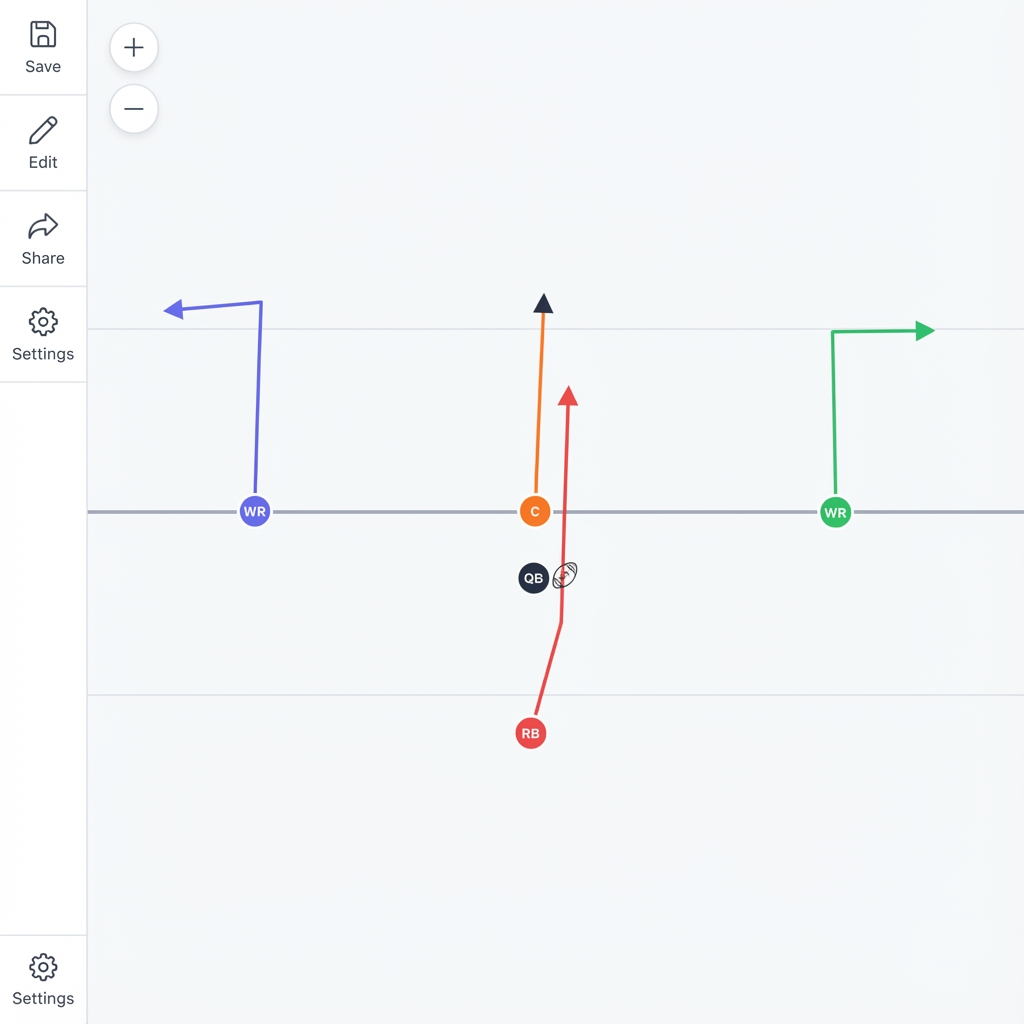
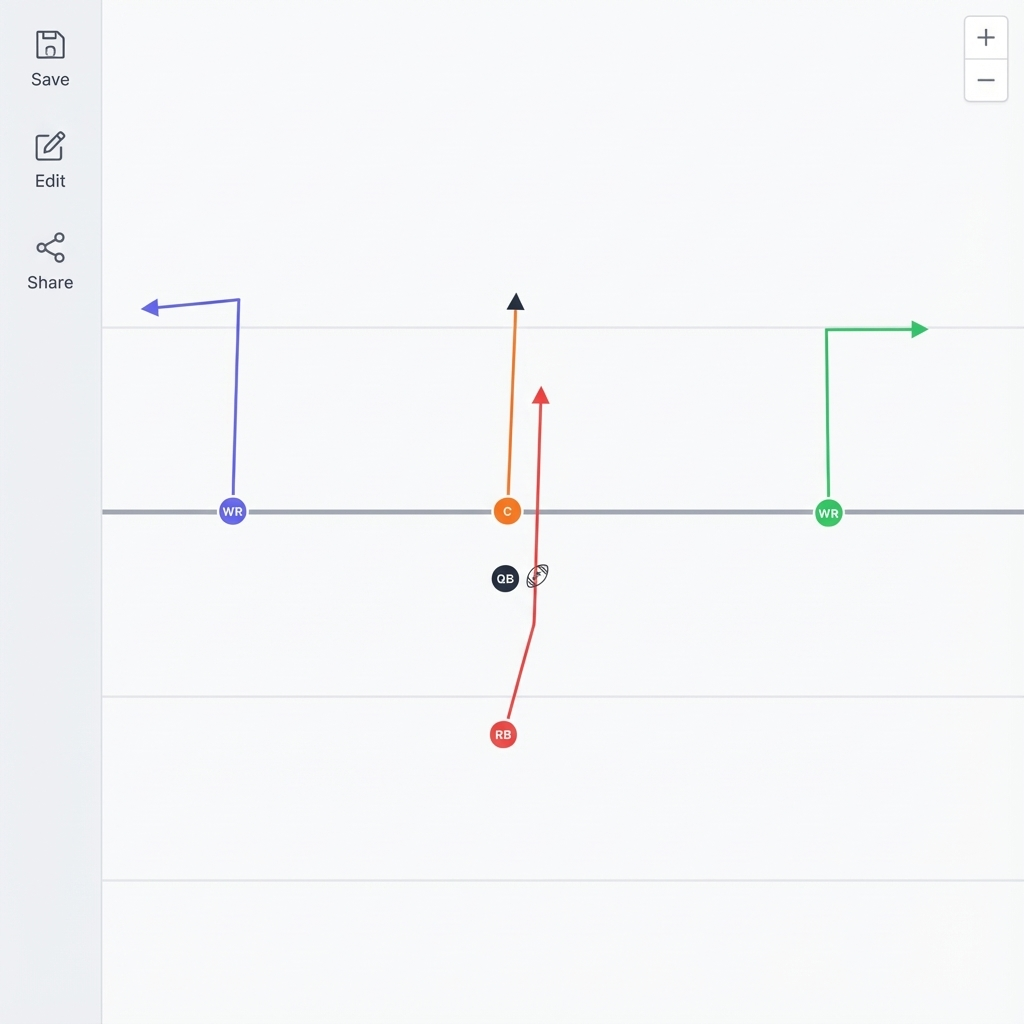
Landing page refinements
- Removed 'draw a line with your finger' sentence from feature copy
- Enhanced social proof banner: larger text (1.5rem), bold weight, primary color
- Updated editor screenshot with gray sidebar and clean white field
- Editor now shows only 3 buttons (Save, Edit, Share) with no duplicate Settings

diff --git a/index.html b/index.html
@@ -138,8 +138,7 @@
         <div class="feature-text">
             <h2>From Brain to Screen in Seconds.</h2>
             <p>Forget messy sharpies on napkins or clunky, outdated software. FlagSketch’s intuitive drag-and-drop
-                interface makes designing complex route combinations incredibly fast. If you can draw a line with your
-                finger, you can build a professional playbook.</p>
+                interface makes designing complex route combinations incredibly fast.</p>
             <ul class="check-list">
                 <li>✅ Pre-set route trees (slants, posts, corners)</li>
                 <li>✅ Customize for any league format</li>

diff --git a/css/landing.css b/css/landing.css
@@ -157,11 +157,12 @@ header {
     background-color: var(--bg-light);
     border-top: 1px solid var(--border-color);
     border-bottom: 1px solid var(--border-color);
-    padding: 24px;
+    padding: 32px 24px;
     text-align: center;
-    color: var(--text-secondary);
-    font-weight: 500;
-    font-size: 1rem;
+    color: var(--text-primary);
+    font-weight: 700;
+    font-size: 1.5rem;
+    letter-spacing: -0.02em;
 }
 
 /* Features Sections */
